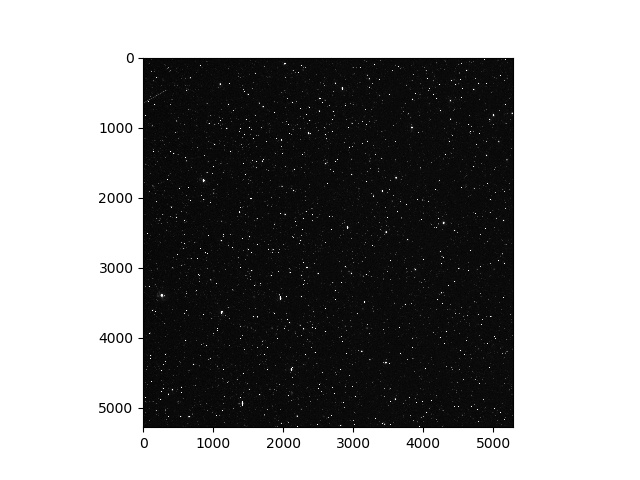
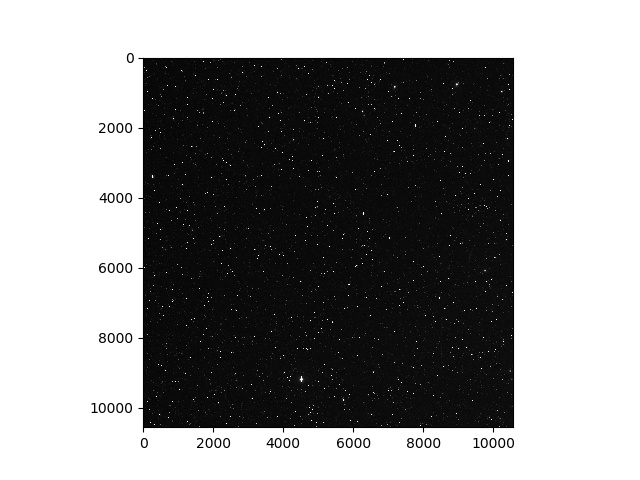
超定方程解

diff --git a/imgtu.py b/imgtu.py
@@ -1,0 +1,119 @@
+# -*- coding: utf-8 -*-
+"""
+Created on Tue May 19 22:08:44 2020
+
+@author: dingxu
+"""
+
+import numpy as np
+import matplotlib.pyplot as plt
+
+#a=np.mat([[1,1,1],[1,3,-1],[2,5,2],[3,-1,5],])#系数矩阵
+a = np.float32([[334.049,107.978,1,0,0,0],
+            [0,0,0,334.049,107.978,1],
+            
+            [960.041,113.597,1,0,0,0],
+            [0,0,0,960.041,113.597,1],
+            
+            [567.15,187.546,1,0,0,0],
+            [0,0,0,567.15,187.546,1],
+            
+            [154.701,297.219,1,0,0,0],
+            [0,0,0,154.701,297.219,1],
+            
+            [609.576,355.069,1,0,0,0],
+            [0,0,0,609.576,355.069,1],
+            
+            [739.827,366.559,1,0,0,0],
+            [0,0,0,739.827,366.559,1],
+            
+            [845.845,399.465,1,0,0,0],
+            [0,0,0,845.845,399.465,1],
+            
+            [713.735,540.193,1,0,0,0],
+            [0,0,0,713.735,540.193,1],
+            
+            [643.34,659.523,1,0,0,0],
+            [0,0,0,643.34,659.523,1],
+            
+            [632.83,673.916,1,0,0,0],
+            [0,0,0,632.83,673.916,1],
+            
+            [914.795,734.975,1,0,0,0],
+            [0,0,0,914.795,734.975,1],
+            
+            [491.198,940.262,1,0,0,0],
+            [0,0,0,491.198,940.262,1],
+            
+            ])
+
+b=np.float32([332.549,
+          106.124,
+          
+          958.312,
+          112.69,
+          
+          566.238,
+          186.695,
+          
+          153.574,
+          295.828,
+          
+          607.67,
+          353.778,
+          
+          738.635,
+          365.537,
+          
+          844.78,
+          398.529,
+          
+          712.337,
+          538.53,
+          
+          641.752,
+          657.18,
+          
+          631.345,
+          671.994,
+          
+          913.196,
+          732.829,
+          
+          489.609,
+          938.567
+          
+          ]).T    #常数项列矩阵
+
+
+m = np.dot(a.T,a)
+n = np.dot(a.T,b)
+mli = np.linalg.inv(m)
+x = np.dot(mli,n)
+
+
+print(a[0][0])
+newx = a[0][0]*x[0]+a[0][1]*x[1]+x[2]
+newy = a[1][3]*x[3]+a[1][4]*x[4]+x[5]
+
+print(newx,newy)
+
+juli = np.sqrt((newx-b[0])**2+(newy-b[1])**2)
+
+temp = []
+for i in range (12):
+    p = 2*i
+    pstx = a[p][0]*x[0]+a[p][1]*x[1]+x[2]
+    jux = pstx-b[p]
+    
+    p = p+1
+    psty = a[p][3]*x[3]+a[p][4]*x[4]+x[5]
+    juy = psty -b[p]
+    
+    juli = np.sqrt(jux**2+juy**2)
+    temp.append(juli)
+    
+plt.plot(temp)
+plt.title('6 constant model')  
+
+print(np.mean(temp))

diff --git a/oldb4sift.py b/oldb4sift.py
@@ -106,7 +106,7 @@ lenpipei = 0
 temp1 = []
 temp2 = []
 for i, (m1, m2) in enumerate(matches):
-    if m1.distance < 0.95 * m2.distance:# 两个特征向量之间的欧氏距离，越小表明匹配度越高。
+    if m1.distance < 0.75 * m2.distance:# 两个特征向量之间的欧氏距离，越小表明匹配度越高。
         lenpipei = lenpipei+1
         temp1.append(m1.queryIdx)
         temp2.append(m1.trainIdx)
@@ -165,6 +165,7 @@ witefits(minusimg,'minusimg',timedate)
 tempmatrix = np.zeros((3,1),dtype = np.float64)
 tempmatrix[2] = 1
 deltemp = []
+rmstemp = []
 
 for j in range(lenpipei):
     tempmatrix[0] = src_pts[j][0]
@@ -177,10 +178,16 @@ for j in range(lenpipei):
     
     delcha = math.sqrt((rx11-dst_pts[j][0])**2 + (ry11-dst_pts[j][1])**2)
     deltemp.append(delcha)
+    rmscha = (rx11-dst_pts[j][0])**2 + (ry11-dst_pts[j][1])**2
+    rmstemp.append(rmscha)
     
 plt.figure(5)
 plt.plot(deltemp)
-print(np.mean(deltemp))  
+plt.title('8 constant model')
+print(np.mean(deltemp)) 
+sumrms = np.sum(rmscha)
+rmsresult = np.sqrt(sumrms/12)
+print(rmsresult)
 
 #15 20
 def SNRcompute(zuobiaox,zuobiaoy,img):

diff --git a/xuyisift.py b/xuyisift.py
@@ -22,12 +22,14 @@ onehdu = fits.open(fitsname1)
 imgdata1 = onehdu[0].data  #hdu[0].header
 print(imgdata1.shape)#10560/2=5280
 #oneimgdata = imgdata1[5280:10560,5280:10560]
-oneimgdata = imgdata1[0:5280,0:5280]
+#oneimgdata = imgdata1[0:5280,0:5280]
+oneimgdata = imgdata1
 hang1,lie1 = oneimgdata.shape
 
 twohdu = fits.open(fitsname2)
 imgdata2 = twohdu[0].data  #hdu[0].header
-twoimgdata = imgdata2[0:5280,0:5280]  #图像粗匹配，相差较小匹配效果更好
+twoimgdata = imgdata2
+#twoimgdata = imgdata2[0:5280,0:5280]  #图像粗匹配，相差较小匹配效果更好
 hang2,lie2 = twoimgdata.shape
 
 
@@ -103,7 +105,7 @@ lenpipei = 0
 temp1 = []
 temp2 = []
 for i, (m1, m2) in enumerate(matches):
-    if m1.distance < 0.75 * m2.distance:# 两个特征向量之间的欧氏距离，越小表明匹配度越高。
+    if m1.distance < 0.3 * m2.distance:# 两个特征向量之间的欧氏距离，越小表明匹配度越高。
         lenpipei = lenpipei+1
         temp1.append(m1.queryIdx)
         temp2.append(m1.trainIdx)

diff --git a/zhengui.py b/zhengui.py
@@ -1,0 +1,38 @@
+# -*- coding: utf-8 -*-
+"""
+Created on Tue May 19 15:38:49 2020
+
+@author: dingxu
+"""
+
+
+import numpy as np
+import cv2
+
+a=np.mat([[1,1,1],[1,3,-1],[2,5,2],[3,-1,5],])#系数矩阵
+b=np.mat([2,-1,1,-2]).T    #常数项列矩阵
+
+
+m = np.dot(a.T,a)
+n = np.dot(a.T,b)
+mli = np.linalg.inv(m)
+x = np.dot(mli,n)
+
+positions1 = np.float32([[713.735,540.193],[154.701,297.219],[334.049,107.978]])
+
+positions2 = np.float32([[712.337,538.53],[153.574,295.828],[332.549,106.124]])
+
+
+post1 = np.float32([[713.735,540.193]])
+post2 = np.float32([[712.337,538.53]])
+
+M = cv2.getAffineTransform(positions1,positions2)
+
+new1 = post1[0][0]*M[0][0]+post1[0][1]*M[0][1]+M[0][2]
+new2 = post1[0][0]*M[1][0]+post1[0][1]*M[1][1]+M[1][2]
+print(new1)
+print(new2)
+
+juli = np.sqrt((new1-post2[0][0])**2+(new2-post2[0][1])**2)
+
+print(juli)

diff --git a/shiliang.m b/shiliang.m
@@ -1,0 +1,19 @@
+x=0:0.1:50;
+y1=chi2pdf(x,1);
+y2=chi2pdf(x,4);
+y3=chi2pdf(x,10);
+y4=chi2pdf(x,20);
+plot(x,y1);
+hold on;
+plot(x,y2);
+plot(x,y3);
+plot(x,y4);
+axis([0 50 0 0.35]);
+annotation('arrow',[0.25 0.15],[0.8 0.75]);
+text(8,0.3,'\fontsize{15}n=1');
+annotation('arrow',[0.3 0.2],[0.5 0.45]);
+text(11,0.18,'\fontsize{15}n=4');
+annotation('arrow',[0.4 0.3],[0.35 0.30]);
+text(17,0.11,'\fontsize{15}n=10');
+annotation('arrow',[0.6 0.5],[0.25 0.20]);
+text(30,0.065,'\fontsize{15}n=20');

diff --git a/shiliag.py b/shiliag.py
@@ -1,0 +1,17 @@
+# -*- coding: utf-8 -*-
+"""
+Created on Mon May 18 21:31:22 2020
+
+@author: dingxu
+"""
+import matplotlib.pyplot as plt
+
+tx0 = 334.049
+ty0 = 107.978
+
+tx1 = 332.549
+ty1 = 106.124
+
+plt.xlim(0, 400)
+plt.ylim(0, 400)
+plt.annotate(' ',xy=(tx0,ty0),xytext=(tx1,ty1),arrowprops=dict(arrowstyle="->",connectionstyle="arc3"))

diff --git a/test.m b/test.m
@@ -1,0 +1,4 @@
+annotation('arrow',[0.3 0.2],[0.5 0.45]);
+
+
+
